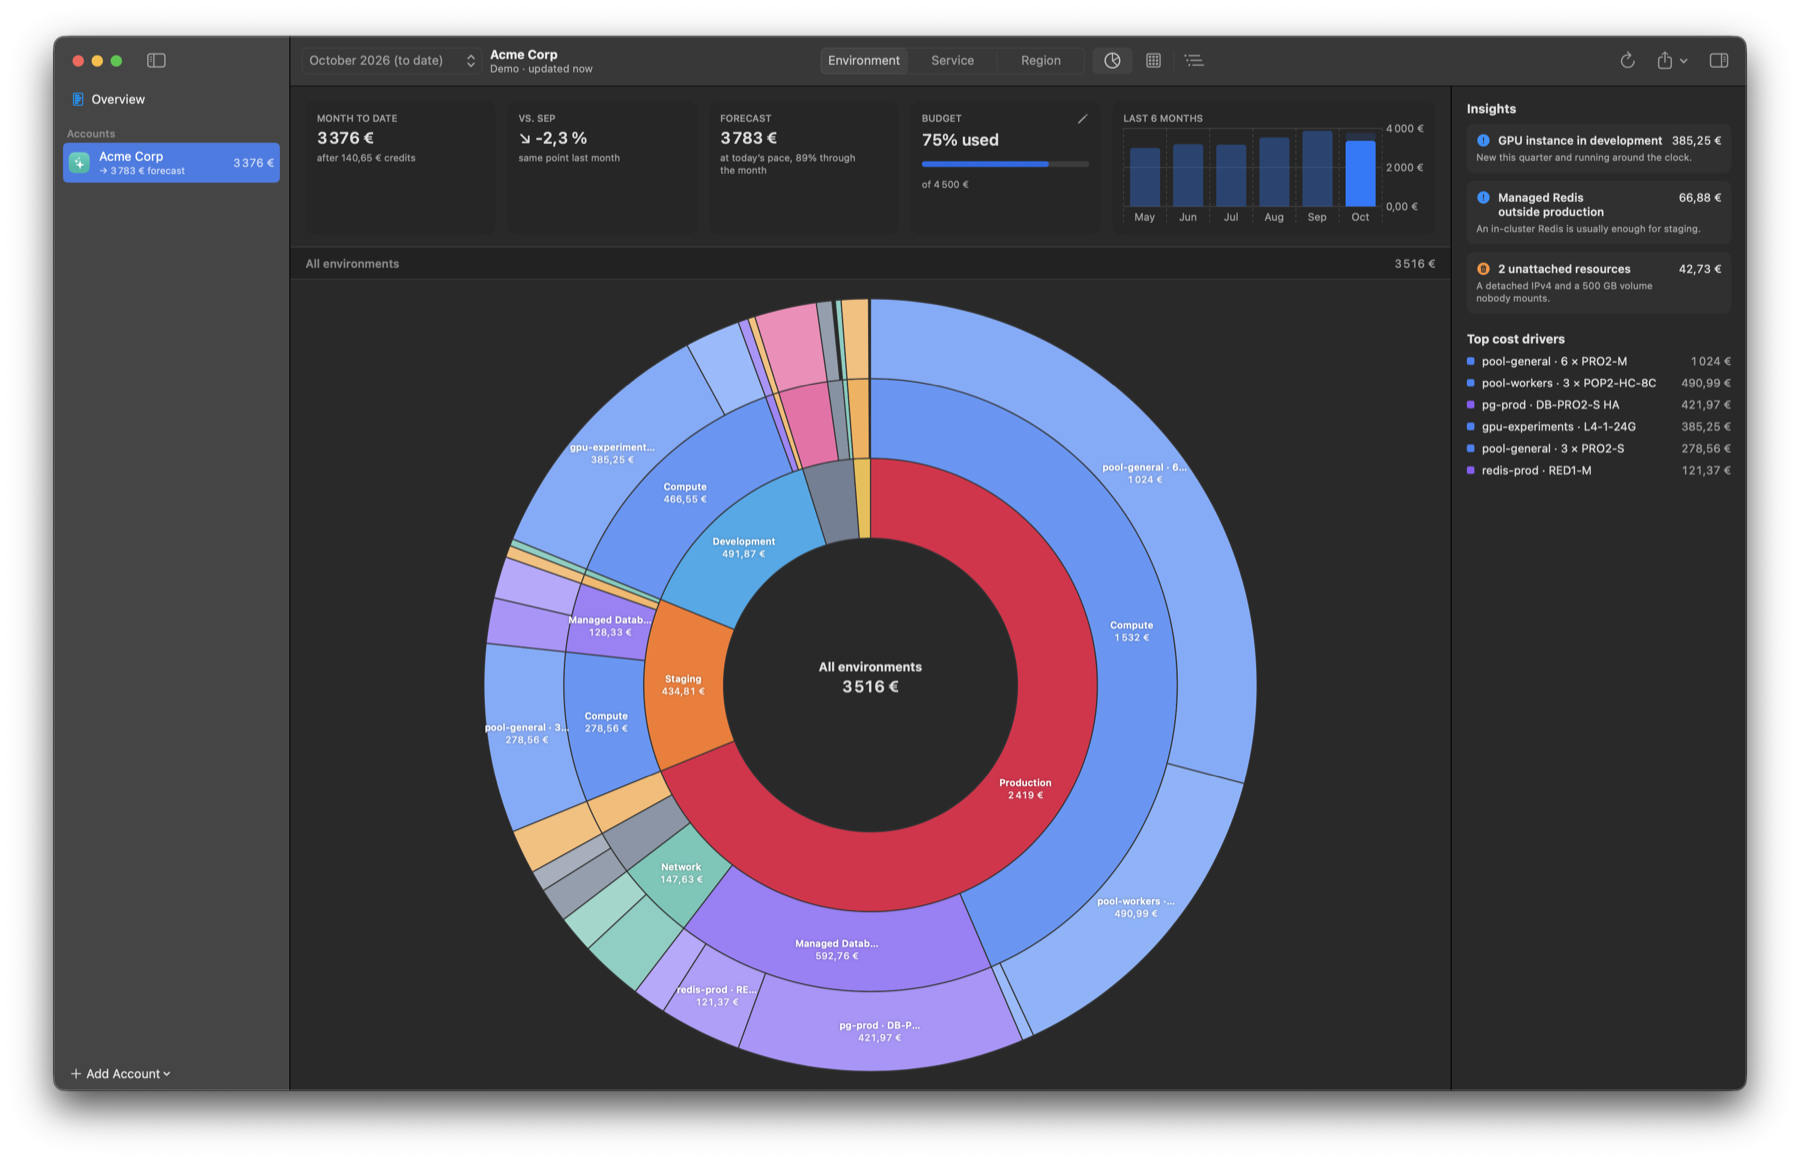
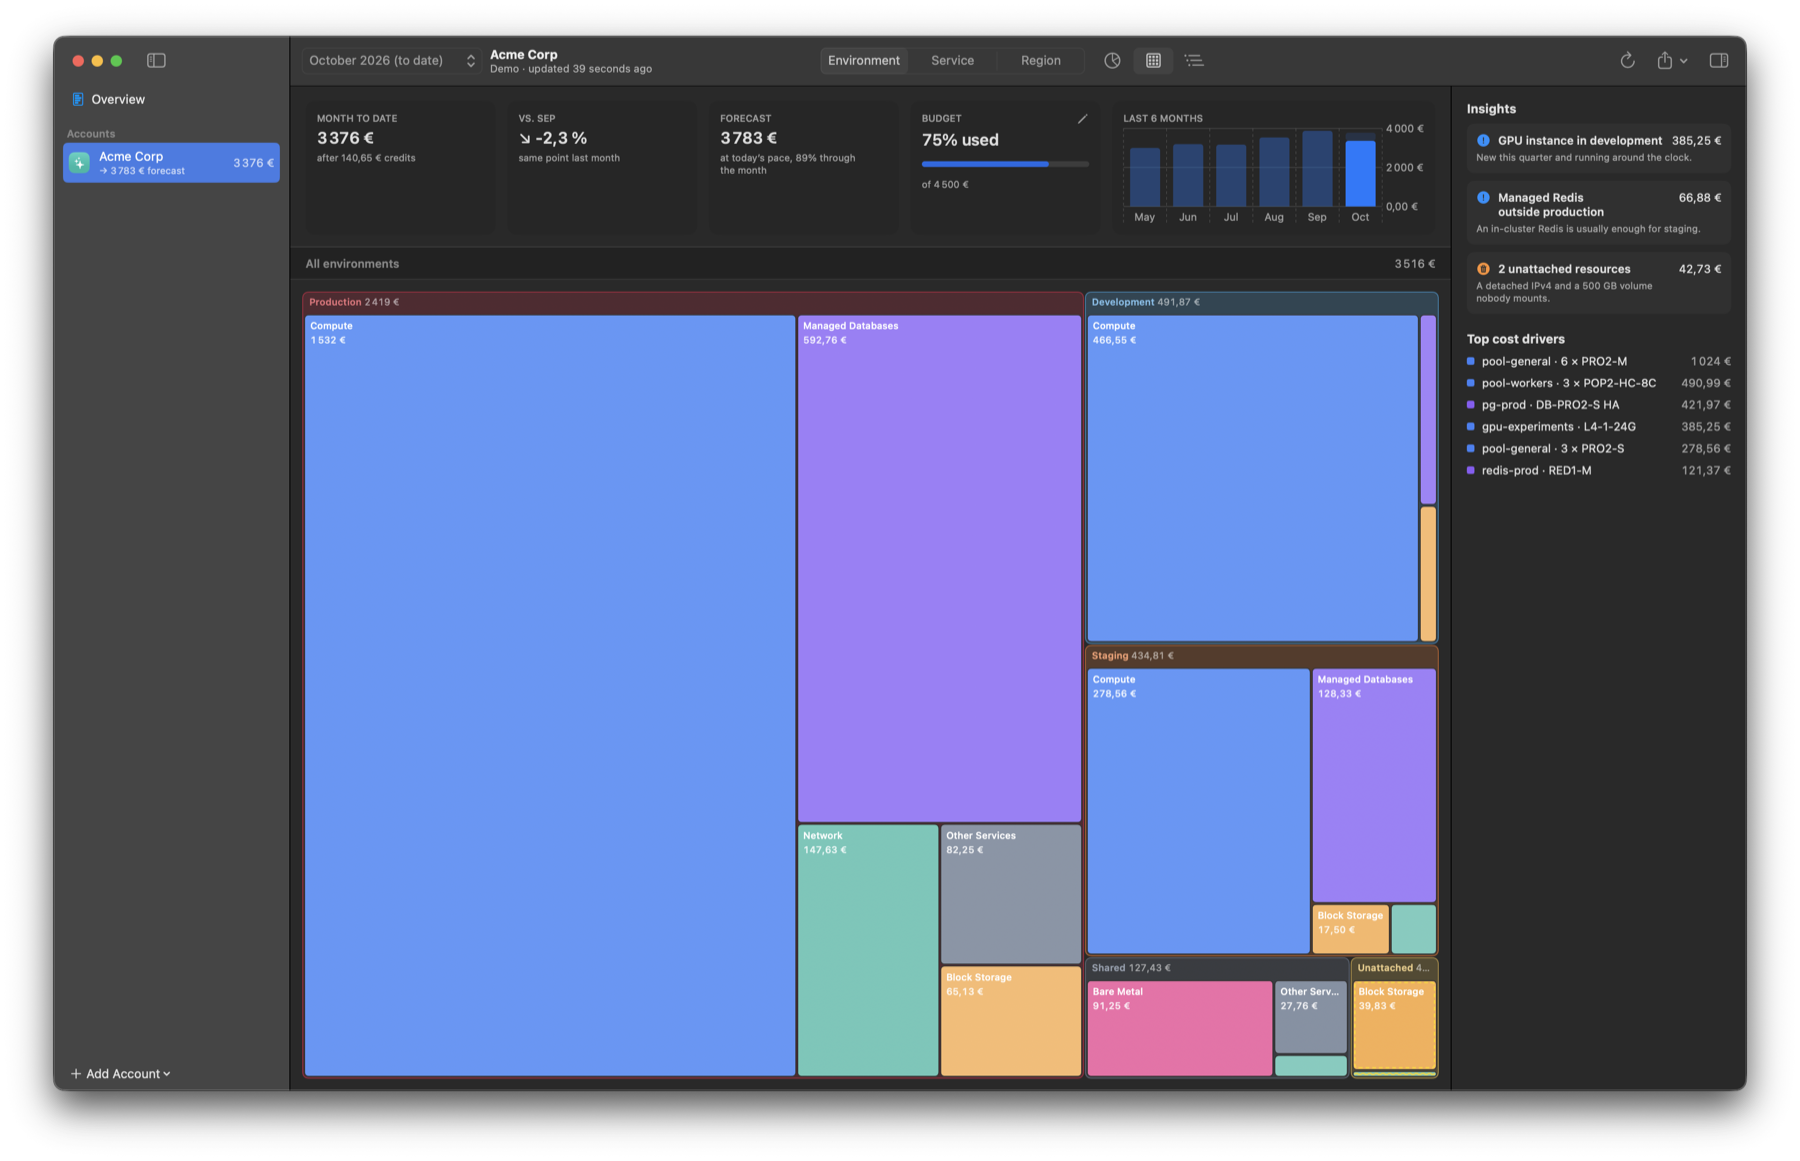
Use the treemap view for the README screenshot

diff --git a/README.md b/README.md
@@ -5,7 +5,7 @@
   A native macOS app with sunburst and treemap views of your cloud bill.</p>
 </div>
 
-<p align="center"><img src="docs/screenshot.png" alt="Cloud Cost Map showing a sunburst of monthly costs by environment, service and resource" width="900"></p>
+<p align="center"><img src="docs/screenshot.png" alt="Cloud Cost Map showing a treemap of monthly costs by environment and service" width="900"></p>
 
 ---
 
